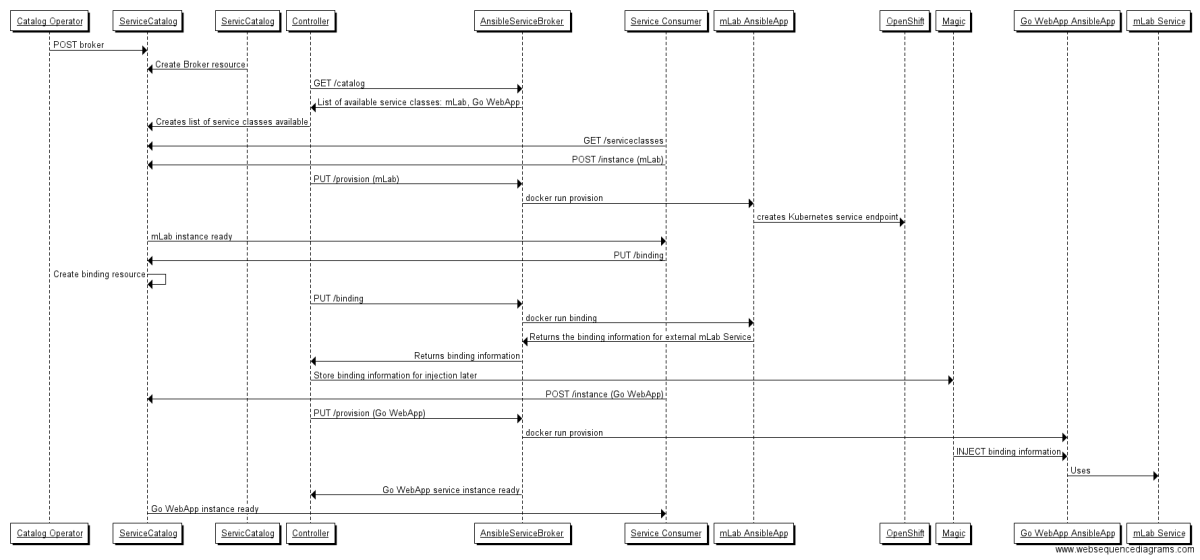
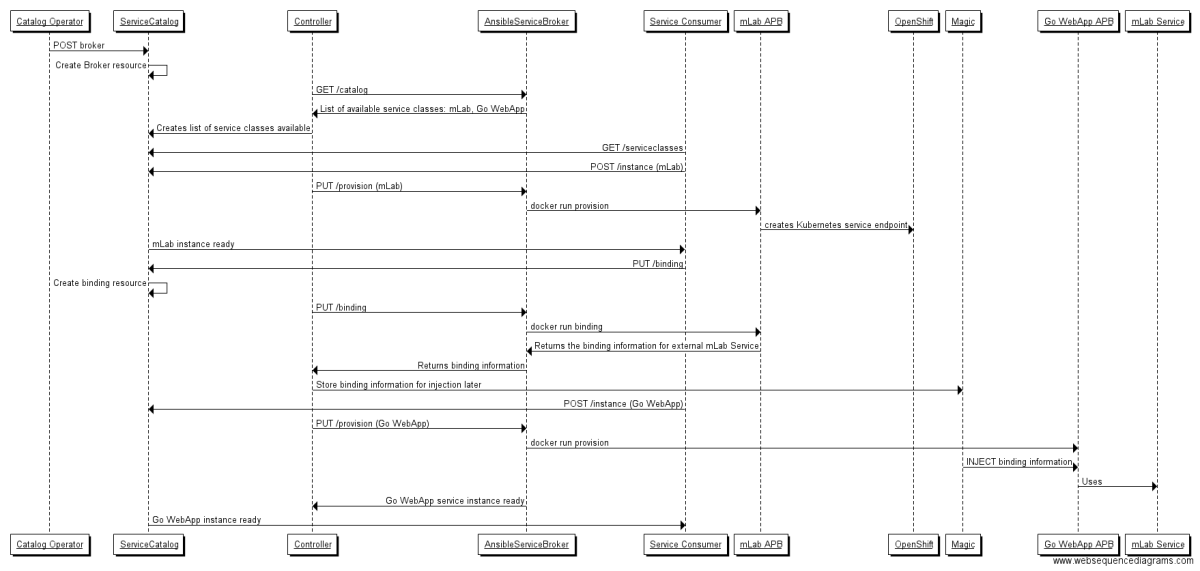
update diagrams to not say AnsibleApp

diff --git a/docs/usecases.md b/docs/usecases.md
@@ -37,7 +37,7 @@ The Service Consumer then utilizes the ServiceClasses for their needs. After get
 
 ```
 Catalog Operator -> ServiceCatalog: POST broker
-ServicCatalog -> ServiceCatalog: Create Broker resource
+ServiceCatalog -> ServiceCatalog: Create Broker resource
 Controller -> AnsibleServiceBroker: GET /catalog 
 AnsibleServiceBroker -> Controller: List of available service classes: mLab, Go WebApp
 Controller -> ServiceCatalog: Creates list of service classes available

diff --git a/docs/aa_integration.md b/docs/aa_integration.md
@@ -1,6 +1,6 @@
 # Ansible Playbook Bundles (APB) Integration
 
-## Running APB with the ASB
+## Running Playbook Bundles with the Ansible Service Broker
 
 Ansible Playbook Bundles (APB) should be executed by the broker via the docker client (APIs):
 
